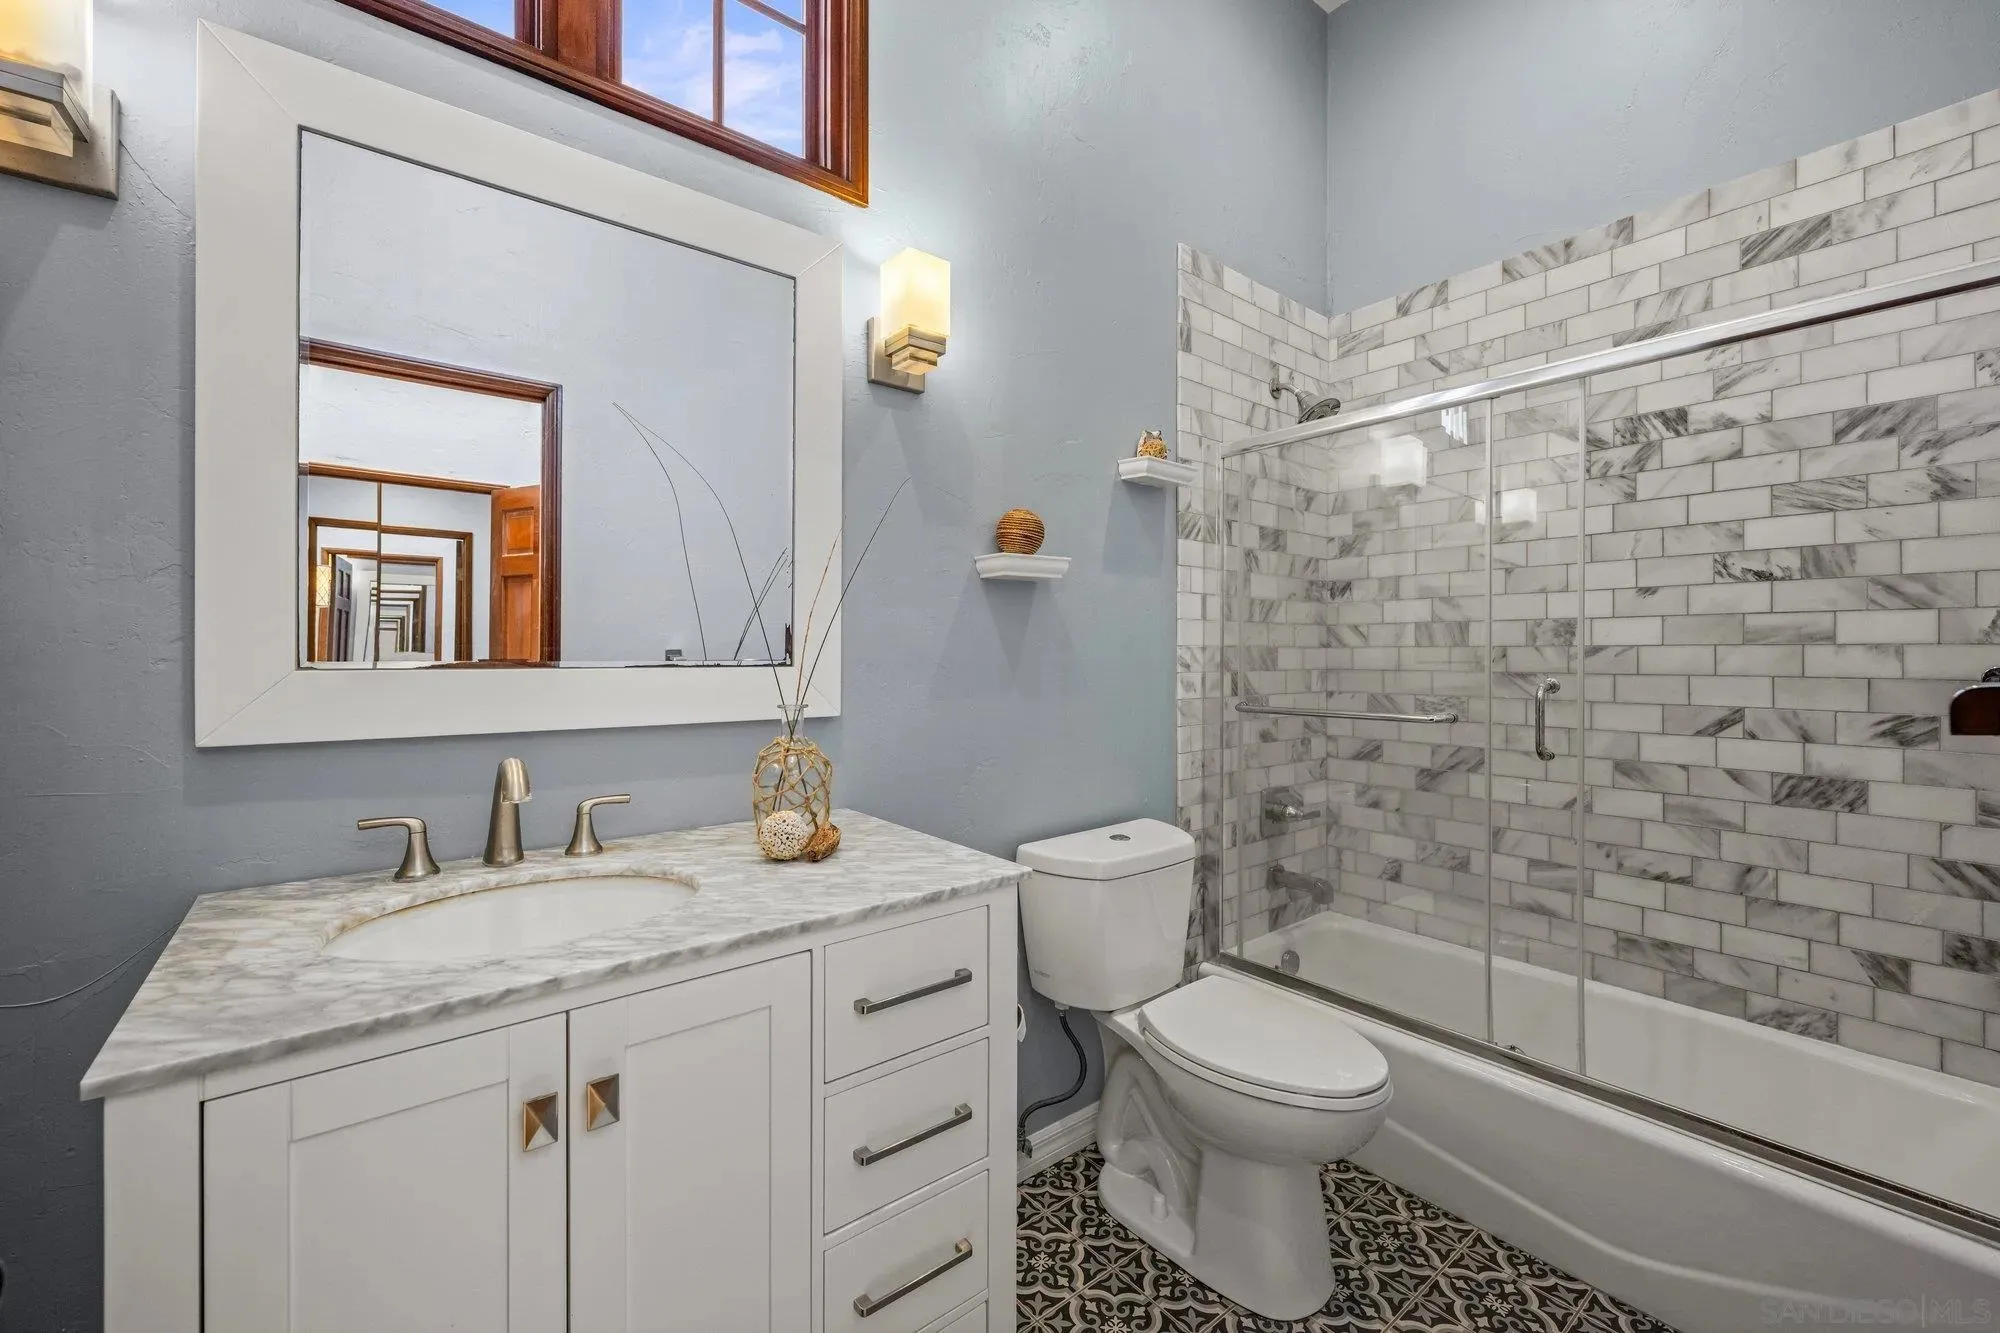
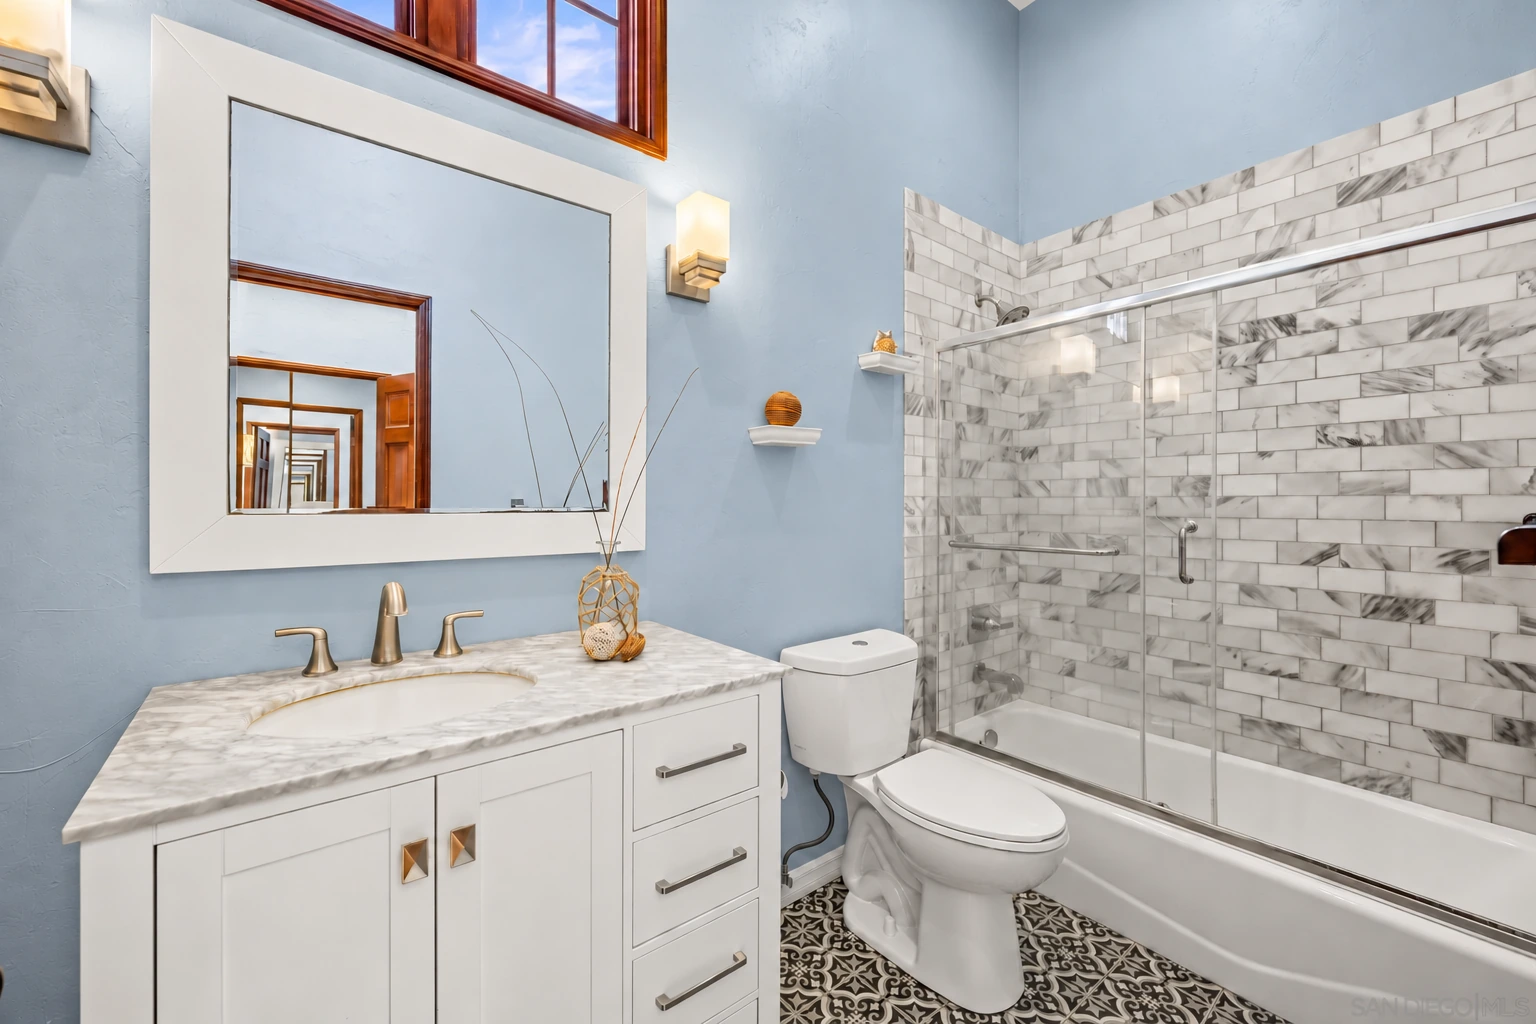
Swap in color-corrected photos for three project rooms.
Replace Anchor Point Hideaway 05, Canyon View Condo 06, Cresta View Estate 02, and the matching homepage dining.jpg with the approved color and exposure fixes.

diff --git a/docs/decisions.md b/docs/decisions.md
@@ -93,3 +93,7 @@ The article distinguishes agent survey observations from experimental findings a
 ## 2026-10-28 — Monte Fuego living room after photo
 
 On Oct 28, 2026 the Monte Fuego living room after photo was replaced with Joey's color-corrected version.
+
+## 2026-10-28 — Enhanced project photos
+
+Oct 28, 2026, enhanced photos swapped in for Anchor Point Hideaway 05, Canyon View Condo 06 and Cresta View Estate 02 (also images/dining.jpg), color/exposure fixes only.
